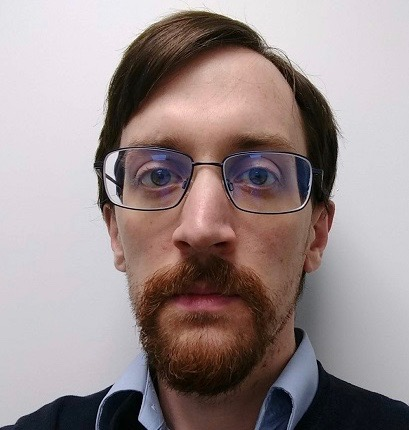
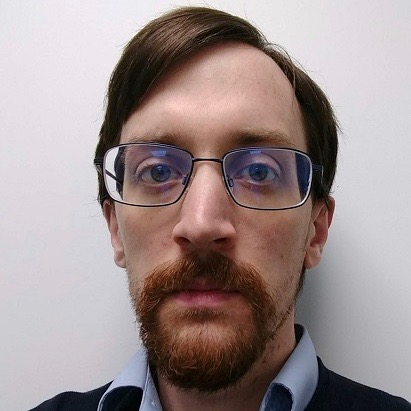
New format for people

Changed region(s): [[0.0, 0.0, 1.0, 1.0], [0.4694, 0.146, 0.4988, 0.1752], [0.2347, 0.2336, 0.2641, 0.2628]]

diff --git a/people/index.html b/people/index.html
@@ -205,115 +205,123 @@
 <section class="bar background-white">
     <div class="container">
         
-		
-		<div class="col-md-12">
-            <div class="row">
-		
-				<div class="col-md-4">
+ 
+
+				<div class="row">
                     <div class="box-simple">
+                      
+                      <div class="col-md-3">
                         <div class="name-picture">
-                            <img class="" alt="" height="100" src="https://VallejosGroup.github.io/img/people/alan.jpg">
+                            <img class="" alt="" height="150" src="https://VallejosGroup.github.io/img/people/alan.jpg">
                             
                         </div>
-                        <h3 style="text-transform: capitalize;">Alan O&#39;Callaghan</h3>
-                        
-                        <p>PhD Student</p>
+                      </div>
+                      <div class="col-md-5" align="left">
+                        <h3 style="text-transform: capitalize; 
+                        text-align: left; line-height:4px;">Alan O&#39;Callaghan</h3>
+                        <p style="text-align: left;">PhD Student</p>
                         
                         <a href=""><i class=></i></a>
                         <a href="https://github.com/Alanocallaghan"><i class=fa&#32;fa-2x&#32;fa-github></i></a>
                         <a href="https://twitter.com/AlanBOCallaghan"><i class=fa&#32;fa-2x&#32;fa-twitter></i></a>  
                         <a href="https://scholar.google.co.uk/citations?user=n2Q4KxsAAAAJ&amp;hl=en"><i class=fa&#32;fa-2x&#32;fa-book></i></a> 
-                        
+                      </div>  
                         
                         
 
                     </div>
  
                 </div>
-		
+ 
         
-		
-				<div class="col-md-4">
+ 
+
+				<div class="row">
                     <div class="box-simple">
+                      
+                      <div class="col-md-3">
                         <div class="name-picture">
-                            <img class="" alt="" height="100" src="https://VallejosGroup.github.io/img/people/andreas-photo.jpg">
+                            <img class="" alt="" height="150" src="https://VallejosGroup.github.io/img/people/andreas.jpg">
                             
                         </div>
-                        <h3 style="text-transform: capitalize;">Chantriolnt-Andreas Kapourani</h3>
-                        
-                        <p>Cross-Disciplinary Fellow (rotation)</p>
+                      </div>
+                      <div class="col-md-5" align="left">
+                        <h3 style="text-transform: capitalize; 
+                        text-align: left; line-height:4px;">Chantriolnt-Andreas Kapourani</h3>
+                        <p style="text-align: left;">Cross-Disciplinary Fellow (rotation)</p>
                         
                         <a href="http://homepages.inf.ed.ac.uk/s1263191/"><i class=fa&#32;fa-2x&#32;fa-user-circle></i></a>
                         <a href="https://github.com/andreaskapou"><i class=fa&#32;fa-2x&#32;fa-github></i></a>
                         <a href="https://twitter.com/AndreasKapou"><i class=fa&#32;fa-2x&#32;fa-twitter></i></a>  
                         <a href="https://scholar.google.co.uk/citations?user=RXTwUEsAAAAJ&amp;hl=en"><i class=fa&#32;fa-2x&#32;fa-book></i></a> 
-                        
+                      </div>  
                         
                         
 
                     </div>
  
                 </div>
-		
+ 
         
-		
-				<div class="col-md-4">
+ 
+
+				<div class="row">
                     <div class="box-simple">
+                      
+                      <div class="col-md-3">
                         <div class="name-picture">
-                            <img class="" alt="" height="100" src="https://VallejosGroup.github.io/img/people/Cata2018-01.jpg">
+                            <img class="" alt="" height="150" src="https://VallejosGroup.github.io/img/people/cata.jpg">
                             
                         </div>
-                        <h3 style="text-transform: capitalize;">Catalina Vallejos</h3>
-                        
-                        <p>Group Leader</p>
+                      </div>
+                      <div class="col-md-5" align="left">
+                        <h3 style="text-transform: capitalize; 
+                        text-align: left; line-height:4px;">Catalina Vallejos</h3>
+                        <p style="text-align: left;">Group Leader</p>
                         
                         <a href="/cata/"><i class=fa&#32;fa-2x&#32;fa-user-circle></i></a>
                         <a href="https://github.com/catavallejos"><i class=fa&#32;fa-2x&#32;fa-github></i></a>
                         <a href="https://twitter.com/CataVallejosM"><i class=fa&#32;fa-2x&#32;fa-twitter></i></a>  
                         <a href="https://scholar.google.co.uk/citations?user=lkdrwm0AAAAJ&amp;hl=en"><i class=fa&#32;fa-2x&#32;fa-book></i></a> 
-                        
+                      </div>  
                         
                         
 
                     </div>
  
                 </div>
-		
-			</div>
-		</div>
-		
+ 
         
-		
-		<div class="col-md-12">
-            <div class="row">
-		
-				<div class="col-md-4">
+ 
+
+				<div class="row">
                     <div class="box-simple">
+                      
+                      <div class="col-md-3">
                         <div class="name-picture">
-                            <img class="" alt="" height="100" src="https://VallejosGroup.github.io/img/people/evgenii.jpg">
+                            <img class="" alt="" height="150" src="https://VallejosGroup.github.io/img/people/evgenii.jpg">
                             
                         </div>
-                        <h3 style="text-transform: capitalize;">Evgenii Lobzaev</h3>
-                        
-                        <p>MSc Student</p>
+                      </div>
+                      <div class="col-md-5" align="left">
+                        <h3 style="text-transform: capitalize; 
+                        text-align: left; line-height:4px;">Evgenii Lobzaev</h3>
+                        <p style="text-align: left;">MSc Student</p>
                         
                         <a href=""><i class=></i></a>
                         <a href=""><i class=></i></a>
                         <a href=""><i class=></i></a>  
                         <a href=""><i class=></i></a> 
-                        
+                      </div>  
                         
                         
 
                     </div>
  
                 </div>
-		
-			</div>
-		</div>
-		
+ 
         
-    </div>
+     
 </section>
 
 
